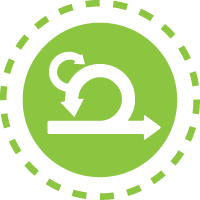
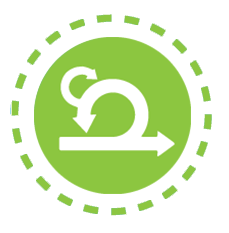
fix challenge type

diff --git a/common/views/AllViews/challenge.html b/common/views/AllViews/challenge.html
@@ -23,7 +23,7 @@
 	{
 		$("#prefoto").attr("src","./images/004.jpg");
 	}
-	evalType(selectedType);
+	evalType(category_Data[selectedChallenge].Type);
 	function evalType(type){
        if(type==1)	{
        		console.log('Ambos');
@@ -31,12 +31,13 @@
             $('#commentFoto').val(' ');
             $('#commentFoto').attr('disabled','disabled');
 	    	console.log('Foto');
-	    }else if(type==3){
+	    }
+	    else if(type==3){
 	    	$("#CameraPhoto").hide();
             camera_success=true;
             $("#buttonCam").css("display","none");
-            $("#testCam").removeClass("col-xs-9");
-            $("#testCam").addClass("col-xs-12");
+     		$("#textCam").removeClass("col-xs-9");
+            $("#textCam").addClass("col-xs-12");
         	console.log('Texto');
         }
     }

diff --git a/common/js/global/init.js b/common/js/global/init.js
@@ -4,8 +4,8 @@
 */
 
 		//var Server="http://localhost:9080/liberty-HelloWorld/Service/",
-			//var Server="https://lmc2.watson.ibm.com:15036/atoms/",
-		var Server="https://lmc2.watson.ibm.com:15036/atomes/Service/",
+			var Server="https://lmc2.watson.ibm.com:15036/atoms/",
+		//var Server="https://lmc2.watson.ibm.com:15036/atomes/Service/",
             ProcServer="https://lmc2.watson.ibm.com:15036/atoms/",
             TestServer="https://lmc2.watson.ibm.com:15036/atomes/",
             Test=0,
@@ -25,7 +25,7 @@
             dates=Server+"Date",
             url_validate=Server+"Validate";
 			
-		var VersionApp = 17;
+		var VersionApp = 21;
 
 		//Device OS
 		var devicePlatform;

diff --git a/common/js/controllers/category.js b/common/js/controllers/category.js
@@ -53,9 +53,11 @@
         	category_CurrentCategory=id;
         	console.log("Display Category: "+id);
             data_category="idUser="+encodeString(global_UserId)+"&idCategory="+encodeString(category_CurrentCategory);
+            console.log("URL: "+data_category);
             $.when(get_Data(Uncompleted_Json,data_category)).then(function(challenge_data){
-                display_categoryData(challenge_data)	;
+                display_categoryData(challenge_data);
             });
+            console.log("No logo");
         }
 		
 		function display_categoryData(category_data){

diff --git a/common/views/AllViews/badges.html b/common/views/AllViews/badges.html
@@ -136,7 +136,7 @@
 	</div>
 </div>
 
-<div class="row" style="padding-left: 7%; padding-right: 7%;" id="Cat5">
+<div class="row" style="padding-left: 7%; padding-right: 7%;" id="Cat6">
 	<div class="col-xs-4 NoPaddingLR">
 		<br> <span class="title5">Agile</span>
 	</div>
@@ -156,7 +156,7 @@
 			class="img-responsive img-inactive" />
 	</div>
 </div>
-<br>
+
 <div class="row">
 	<div class="col-xs-6 col-lg-6 text-left PaddingLR">
 		<img src="./images/flechaI.png" width="35px" class="img-responsive backScore" style="display:inline" />

diff --git a/common/views/AllViews/levels.html b/common/views/AllViews/levels.html
@@ -78,7 +78,7 @@
 				<div class="col-xs-4 text-center" style="margin:6px;">
 					<div class="row" style="border: 3px #8cc640 dashed;border-radius:10px;">
 						<div class="col-xs-7 text-center" style="padding-right:0px;padding-left:0px;">
-							<img src="./images/agile3.png" width="75%" style="display:inline-block;padding-top:6px;" class="img-responsive"/>
+							<img src="./images/agile3.png" width="100%" style="display:inline-block;" class="img-responsive"/>
 						</div>
 						<div class="col-xs-5 titleLevels">
 							1

diff --git a/common/js/controllers/badges.js b/common/js/controllers/badges.js
@@ -39,7 +39,7 @@
                 $.when(get_Data(Status_Json,data_status)).then(function(status_data)
                 {
                     categories            = status_data;
-                    var catID             = ['#Cat1', '#Cat2', '#Cat3', '#Cat4', '#Cat5' ];
+                    var catID             = ['#Cat1', '#Cat2', '#Cat3', '#Cat4', '#Cat5','#Cat6' ];
                     var number_categories = categories.length;
 
                     var category          = 0, 

diff --git a/common/js/controllers/challenge.js b/common/js/controllers/challenge.js
@@ -64,8 +64,7 @@
             currentChallenge=category_Data[selectedChallenge].id;
             selectedScore=category_Data[selectedChallenge].Points;
             selectedType=category_Data[selectedChallenge].Type;
-            console.log("Challenge:"+currentChallenge+" Score: "+selectedScore+" Type: "+selectedType);
-        
+            console.log("Challenge:"+currentChallenge+" Score: "+selectedScore+" Type: "+selectedType);        
         }
         
         

diff --git a/common/views/AllViews/beforeCategories.html b/common/views/AllViews/beforeCategories.html
@@ -34,7 +34,7 @@
 				<img src="./images/plant2.png" width="100%" style="display:inline-block;" class="img-responsive EnvironmentCa"/>
 			</div>
 			<div class="col-xs-5 text-center">
-				<img src="./images/agile2.png" width="90%" style="display:inline-block;" class="img-responsive AgileCat"/>
+				<img src="./images/agile2.png" width="100%" style="display:inline-block;" class="img-responsive AgileCat"/>
 			</div>
 			<div class="col-xs-1">
 			</div>

diff --git a/common/views/AllViews/index.html b/common/views/AllViews/index.html
@@ -93,6 +93,6 @@
 <br />
 <div class="row">
 	<div  class="col-lg-12 text-center animated fadeInUp">
-		<span class="MainText AppColor footerVersion">2016 &copy; IBM - V1.0.17.5</span>
+		<span class="MainText AppColor footerVersion">2016 &copy; IBM - V1.2.1</span>
 	</div>
 </div>
